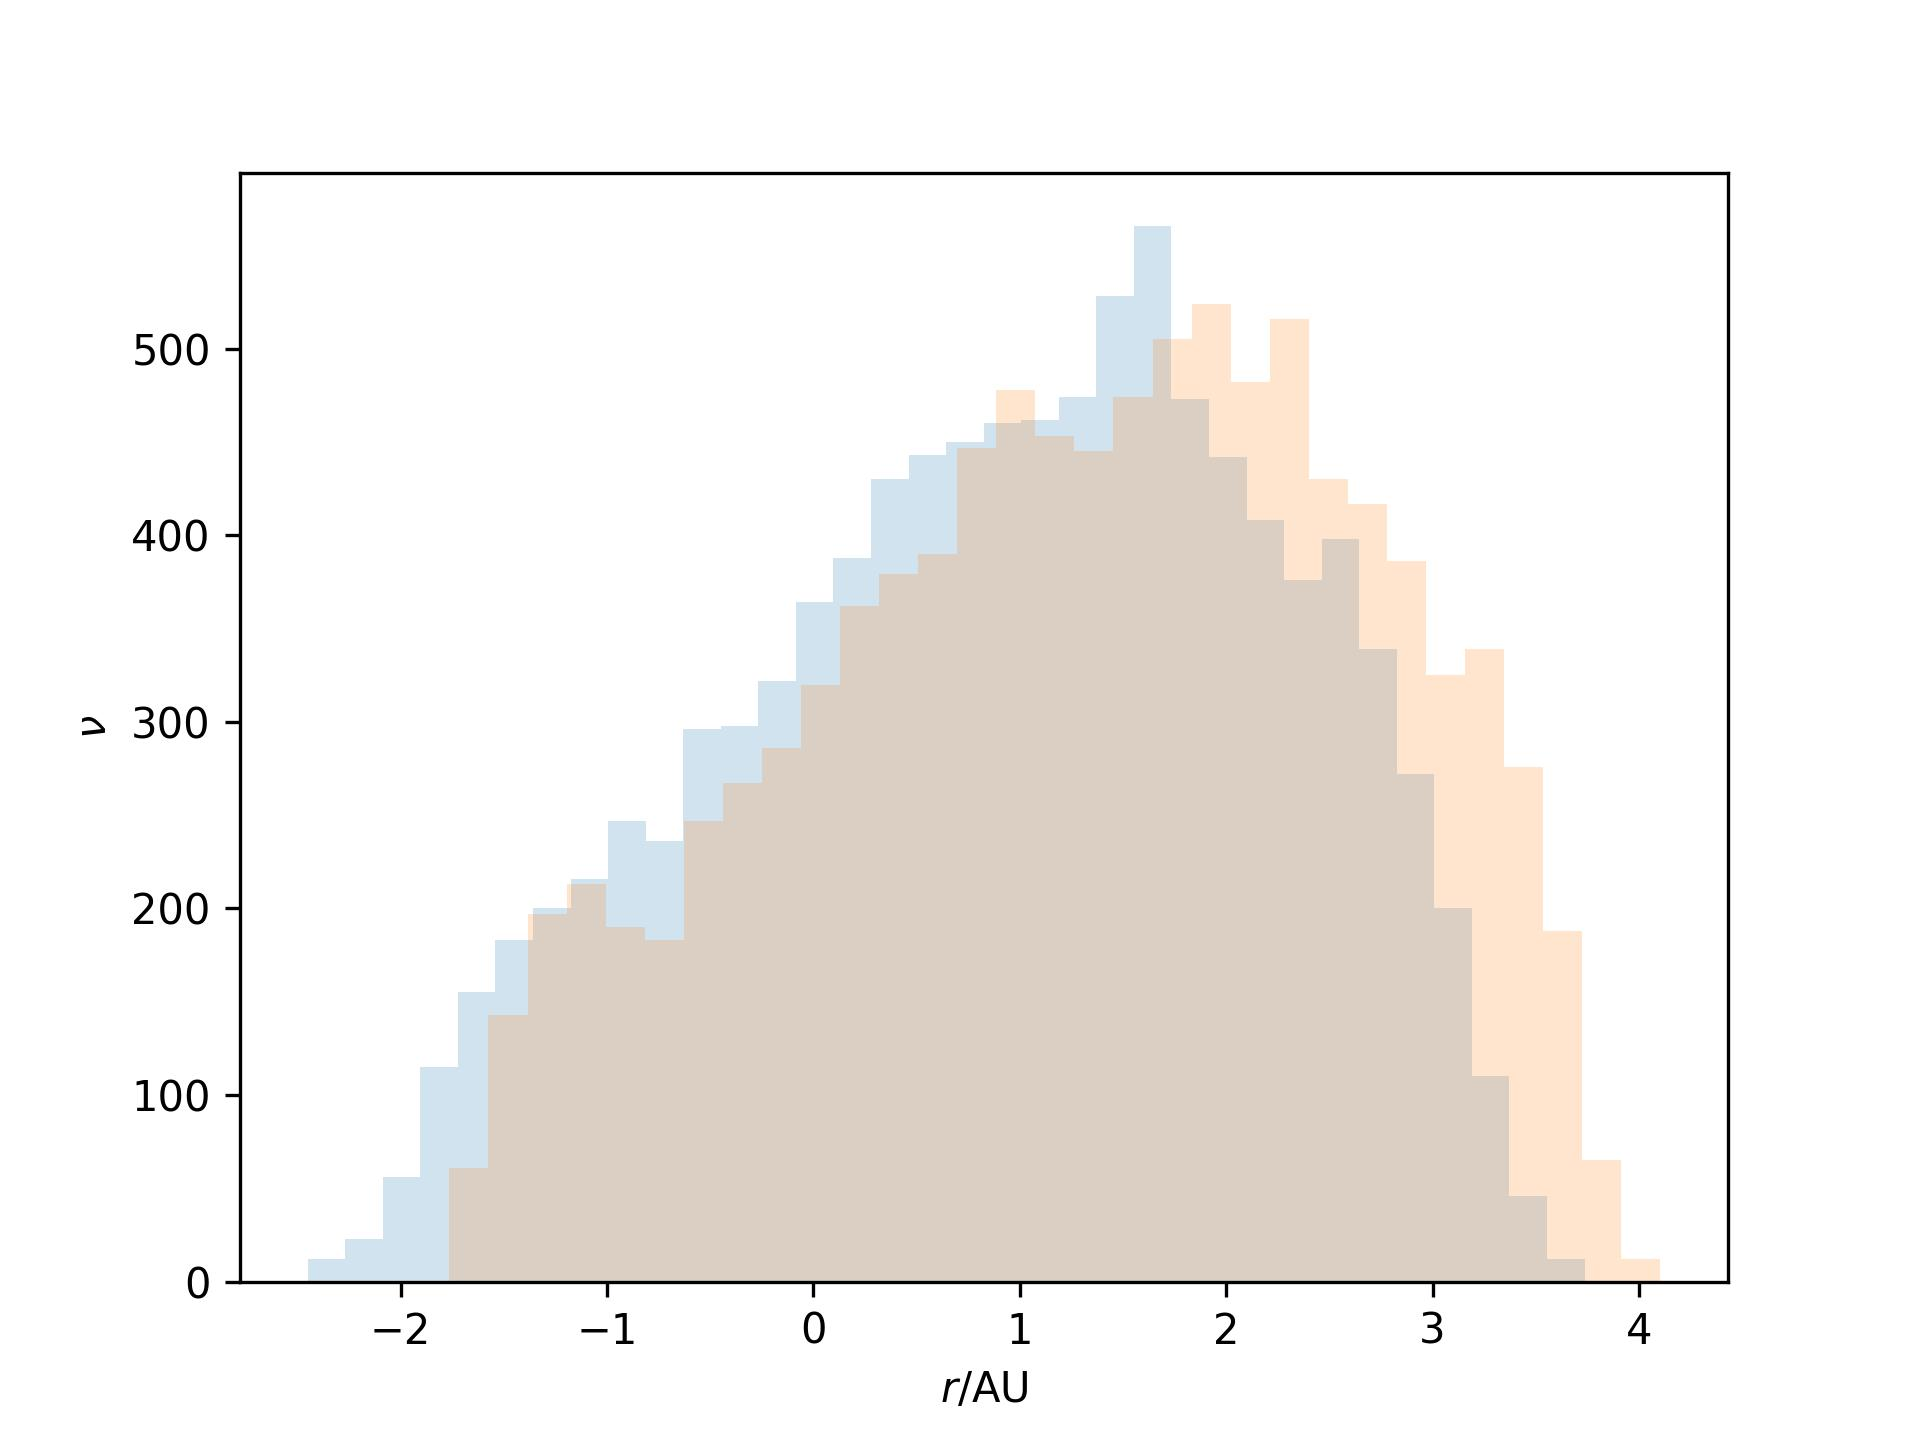
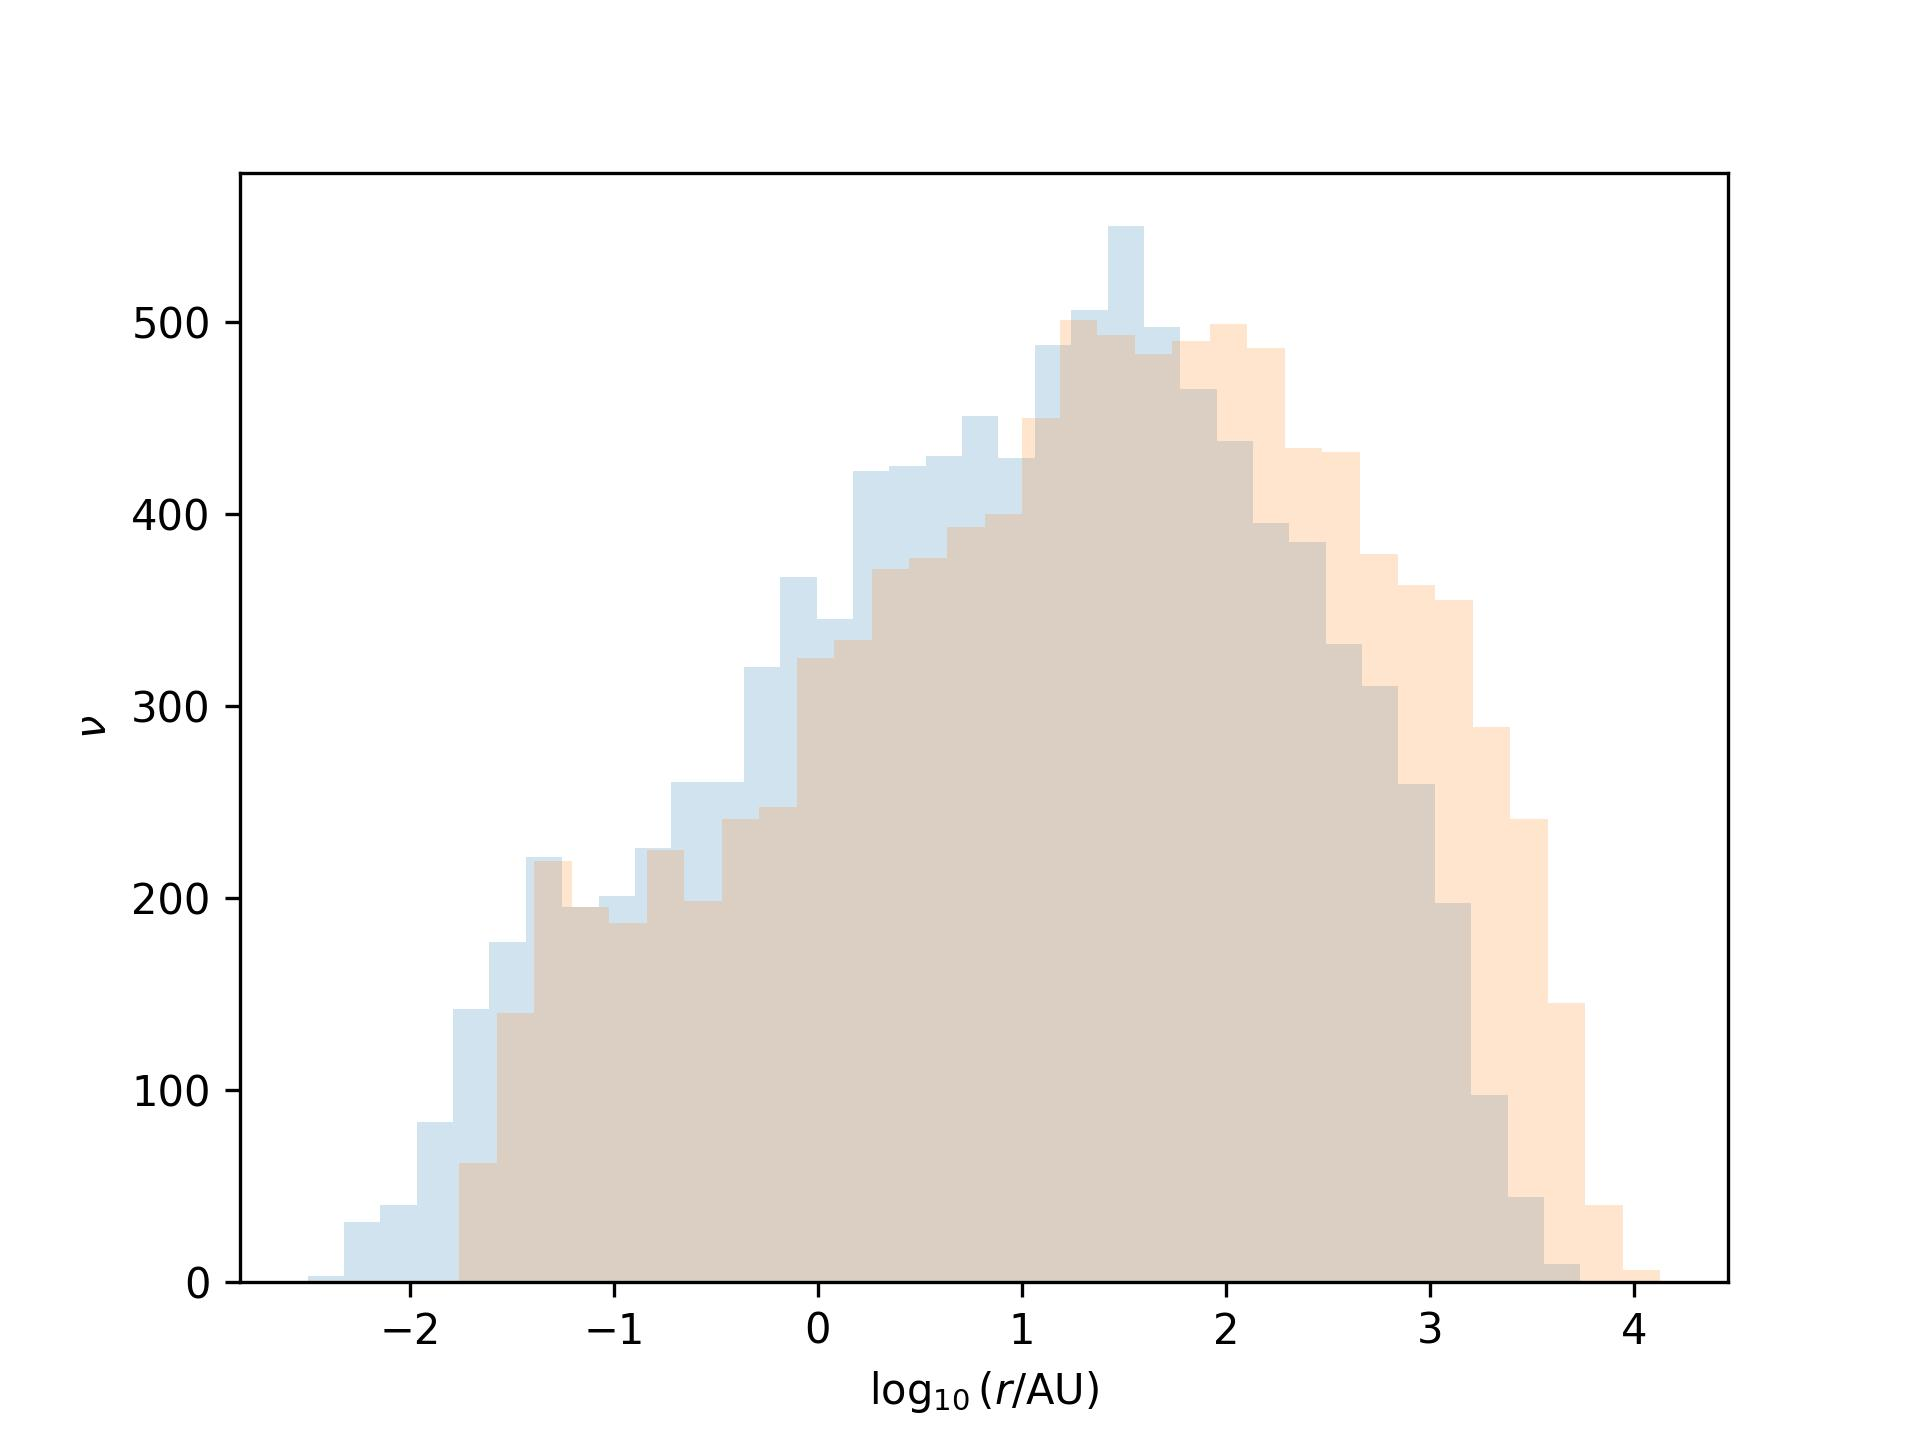
Tutorials updated

diff --git a/docs/source/figures/tutorial_3.py b/docs/source/figures/tutorial_3.py
@@ -123,7 +123,7 @@ ax.hist(np.log10(r_1), bins="auto", alpha=0.2)
 ax.hist(np.log10(r_2), bins="auto", alpha=0.2)
 ax.legend(frameon=False)
 # ax.set_xscale("log")
-ax.set_xlabel(r"$r/\mathrm{AU}$")
+ax.set_xlabel(r"$\log_{10}(r/\mathrm{AU})$")
 ax.set_ylabel(r"$\nu$")
 fig.savefig("./moe2017_sample_radius.pdf", dpi=300)
 fig.savefig("./moe2017_sample_radius.jpg", dpi=300)
@@ -143,7 +143,7 @@ ax.hist(np.log10(v_1), bins="auto", alpha=0.2)
 ax.hist(np.log10(v_2), bins="auto", alpha=0.2)
 ax.legend(frameon=False)
 # ax.set_xscale("log")
-ax.set_xlabel(r"$v/\mathrm{km}~\mathrm{s}^{-1}$")
+ax.set_xlabel(r"$\log_{10}(v/\mathrm{km}~\mathrm{s}^{-1})$")
 ax.set_ylabel(r"$\nu$")
 fig.savefig("./moe2017_sample_speed.pdf", dpi=300)
 fig.savefig("./moe2017_sample_speed.jpg", dpi=300)

diff --git a/docs/source/tutorials/tutorial_3.rst b/docs/source/tutorials/tutorial_3.rst
@@ -303,7 +303,7 @@ Now plot their histograms.
    >>> ax.hist(np.log10(r_1), bins="auto", alpha=0.2)
    >>> ax.hist(np.log10(r_2), bins="auto", alpha=0.2)
    >>> ax.legend(frameon=False)
-   >>> ax.set_xlabel(r"$r/\mathrm{AU}$")
+   >>> ax.set_xlabel(r"\log_{10}($r/\mathrm{AU})$")
    >>> ax.set_ylabel(r"$\nu$")
    >>> plt.show()
 
@@ -329,7 +329,7 @@ And again plot their histograms.
    >>> ax.hist(np.log10(v_1), bins="auto", alpha=0.2)
    >>> ax.hist(np.log10(v_2), bins="auto", alpha=0.2)
    >>> ax.legend(frameon=False)
-   >>> ax.set_xlabel(r"$v/\mathrm{km}~\mathrm{s}^{-1}$")
+   >>> ax.set_xlabel(r"$\log_{10}(v/\mathrm{km}~\mathrm{s}^{-1})$")
    >>> ax.set_ylabel(r"$\nu$")
    >>> plt.show()
 
